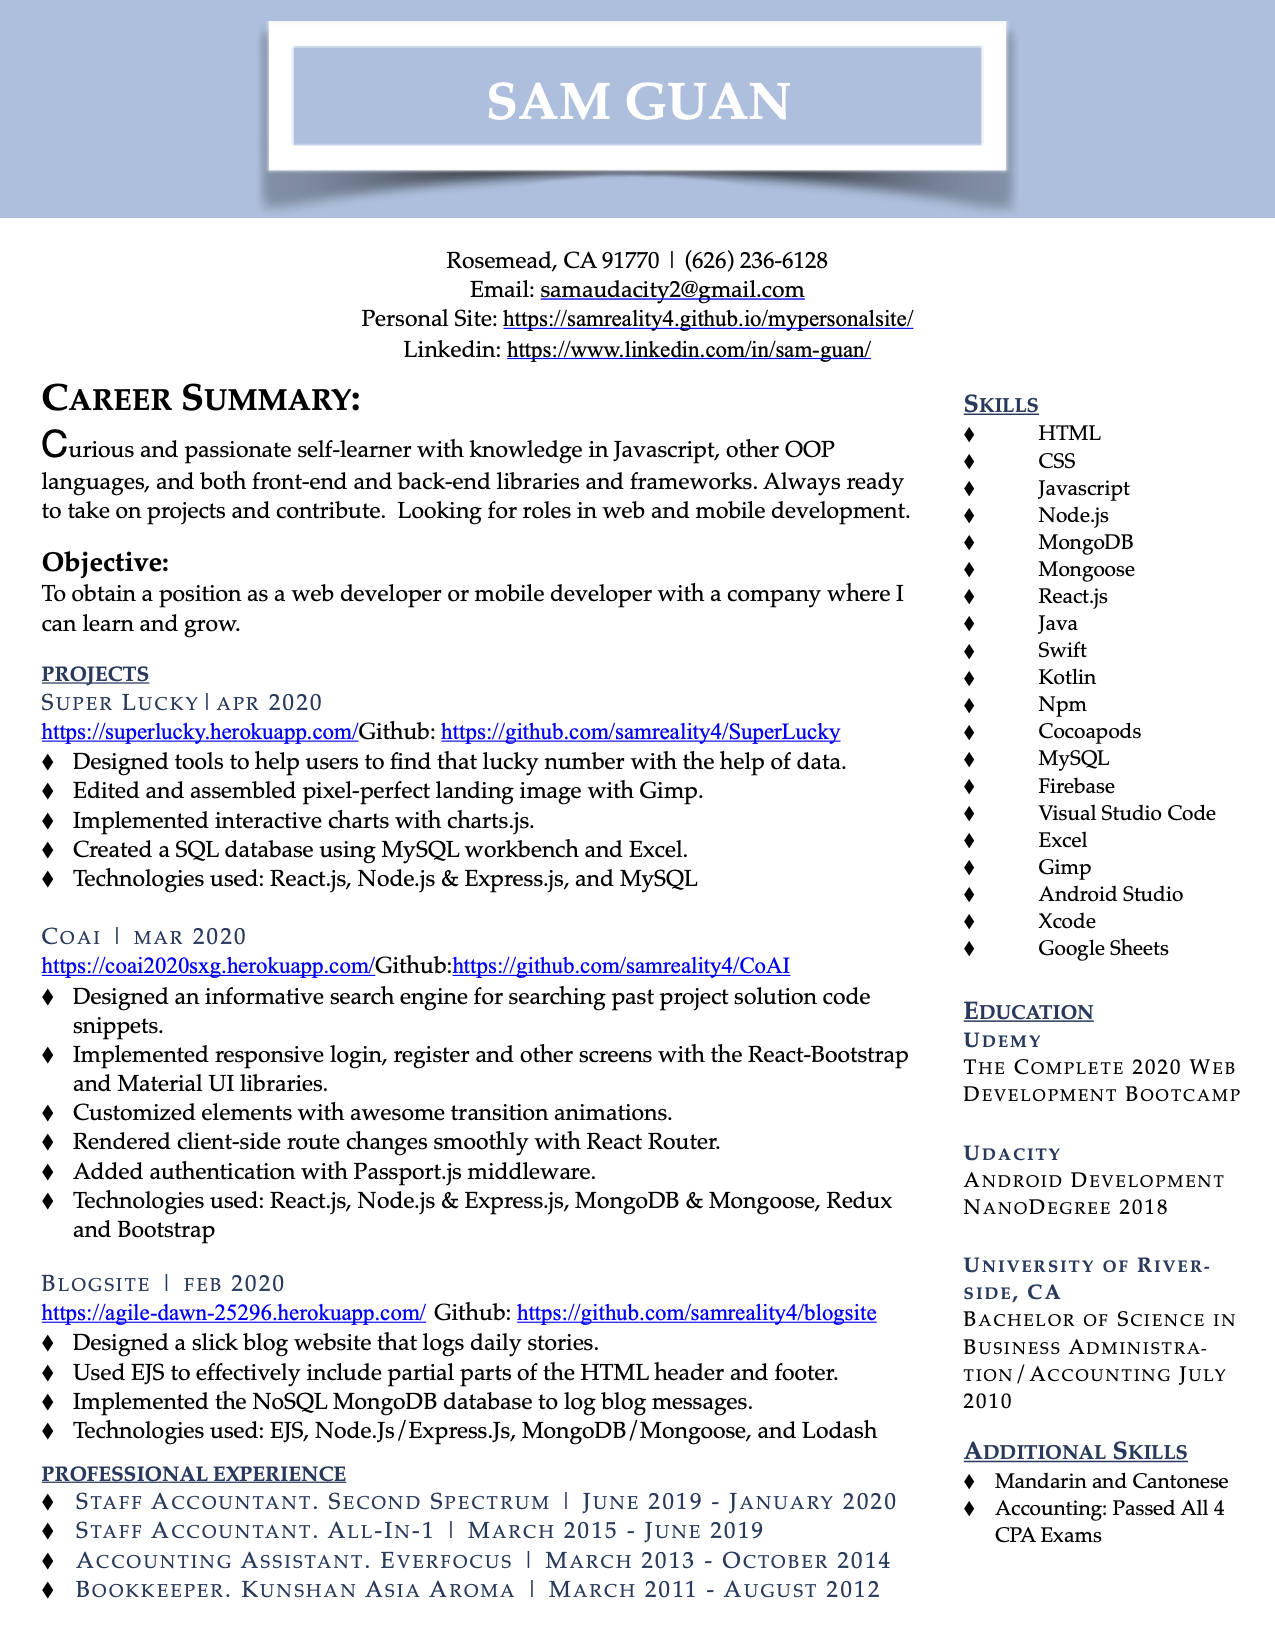
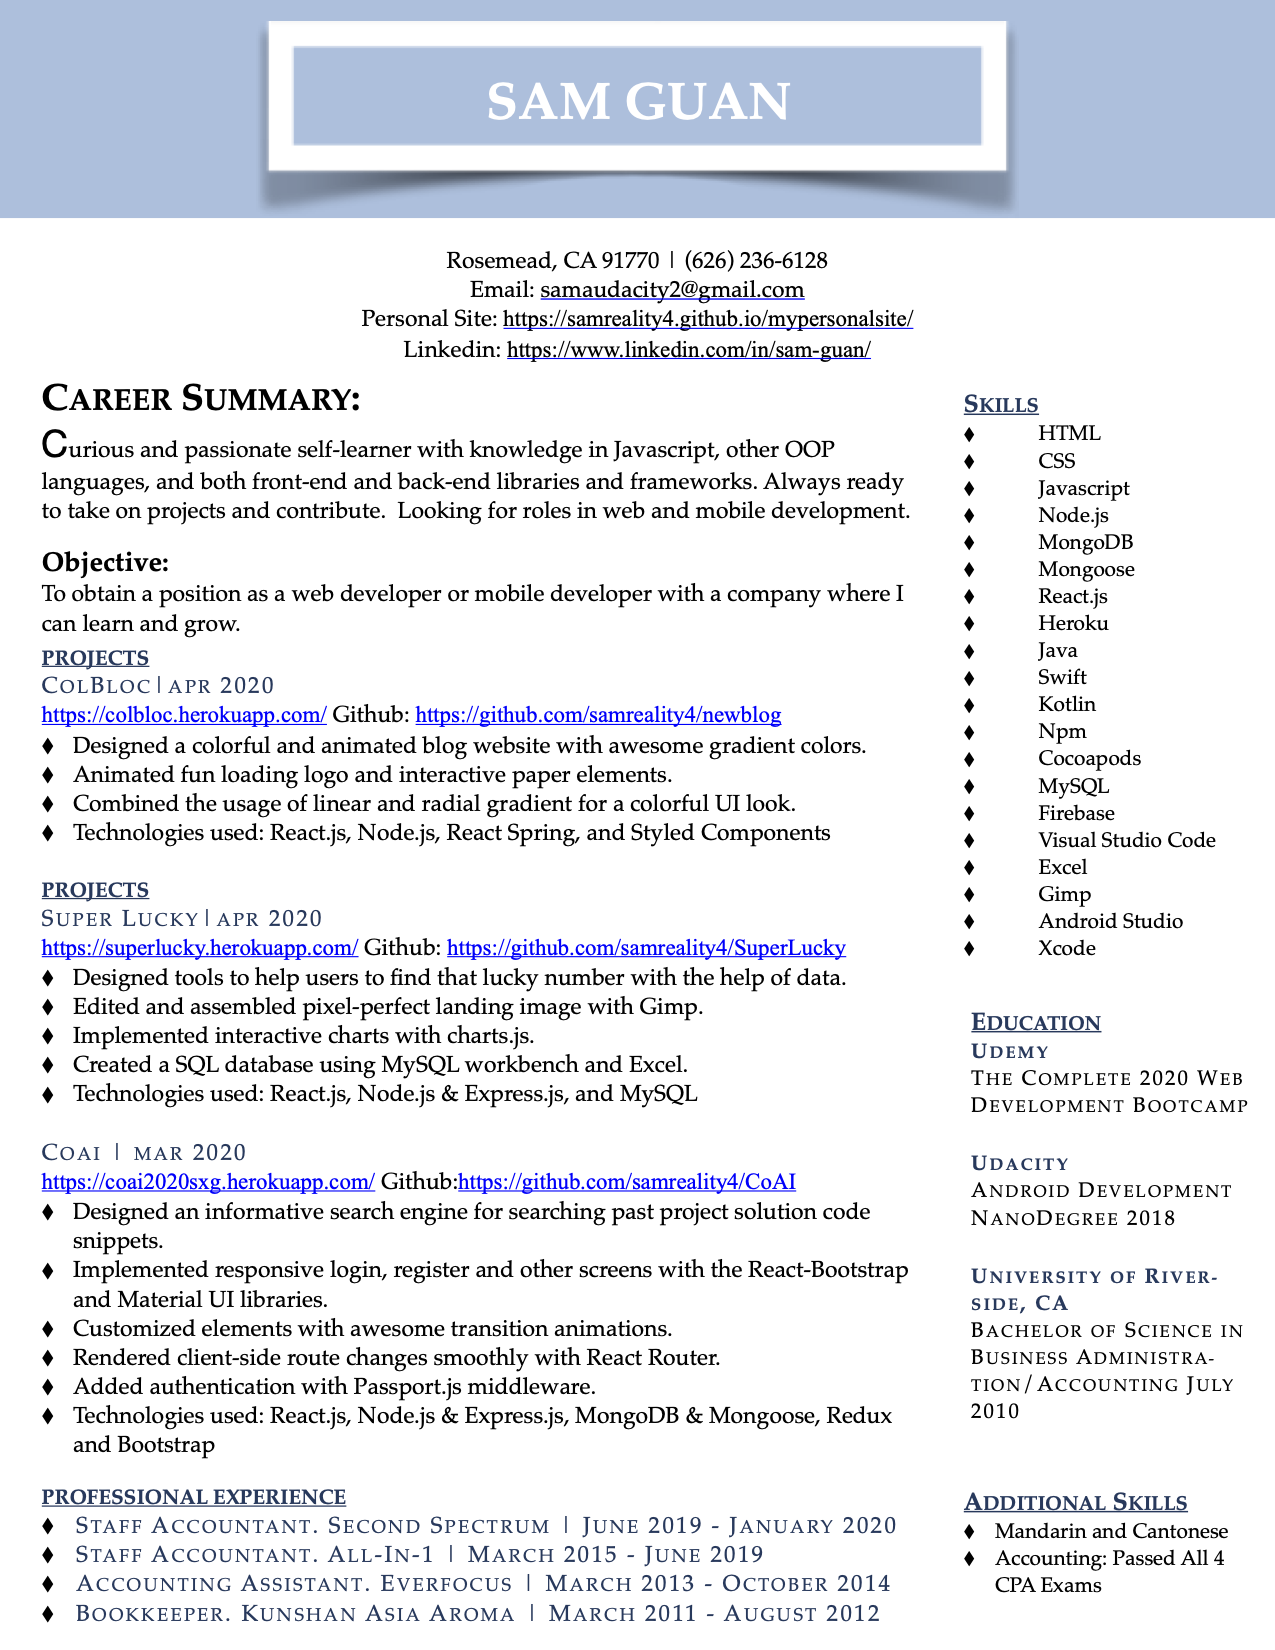
Updates

Changed region(s): [[0.0306, 0.3709, 0.7035, 0.9891], [0.7341, 0.3709, 0.9788, 0.9891]]

diff --git a/static/js/main.9f4e2ef8.chunk.js b/static/js/main.9f4e2ef8.chunk.js
@@ -1,0 +1,2 @@
+(this.webpackJsonpmypersonalsite=this.webpackJsonpmypersonalsite||[]).push([[0],{42:function(e,t,a){e.exports=a(53)},53:function(e,t,a){"use strict";a.r(t);var n=a(0),l=a.n(n),o=a(14),r=a.n(o),i=(a(47),a(37)),c=a(70),m=a(72),s=a(74),u=a(20);var d=function(){var e=Object(n.useState)("#dbe2ef"),t=Object(i.a)(e,2),a=t[0],o=t[1];function r(e){o(e),window.scrollTo(0,0)}return l.a.createElement("div",{className:"container fixed-bottom"},l.a.createElement("div",{className:"row justify-content-center"},l.a.createElement(c.a,{position:"relative",className:"col-xl-4 col-lg-5 col-md-6 col-11 mx-auto justify-content-center shadow-lg",style:{backgroundColor:a,bottom:"20px",alignItems:"center",borderRadius:"15px"}},l.a.createElement(m.a,null,l.a.createElement(u.b,{to:"/mypersonalsite/",style:{textDecoration:"none"}},l.a.createElement(s.a,{onClick:function(){return r("#dbe2ef")},className:"mr-3",variant:"contained",style:{backgroundColor:"#dbe2ef",color:"#FFFF"}},"Home")),l.a.createElement(u.b,{to:"/mypersonalsite/Portfolio",style:{textDecoration:"none"}},l.a.createElement(s.a,{onClick:function(){return r("#fab2ac")},className:"mr-3",variant:"contained",style:{backgroundColor:"#fab2ac",color:"#FFFF"}},"Portfolio")),l.a.createElement(u.b,{to:"/mypersonalsite/Resume",style:{textDecoration:"none"}},l.a.createElement(s.a,{onClick:function(){return r("#eda1c1")},variant:"contained",style:{backgroundColor:"#eda1c1",color:"#FFFF"}},"Resume"))))))},p=[{id:"5",name:"ColBloc",image:"/mypersonalsite/images/colbloc.png",url:"https://colbloc.herokuapp.com/",github:"https://github.com/samreality4/newblog",description:"Colbloc is a blog filled with explosive amount of gradient colors. "},{id:"4",name:"Super Lucky",image:"/mypersonalsite/images/superlucky.png",url:"https://superlucky.herokuapp.com/",github:"https://github.com/samreality4/SuperLucky",description:"Super Lucky is a set of tools to find the luckiest number for the CA Super Lotto game. "},{id:"1",name:"CoAI",image:"/mypersonalsite/images/coai.png",url:"https://coai2020sxg.herokuapp.com/",github:"https://github.com/samreality4/CoAI",description:"A helper search engine for coder to storage their solutions codes for problems that came up during development."},{id:"2",name:"BlogSite",image:"/mypersonalsite/images/blogsite.png",url:"https://agile-dawn-25296.herokuapp.com/",github:"https://github.com/samreality4/blogsite",description:"A fun blog site that logs daily posts."},{id:"3",name:"TinDog",image:"/mypersonalsite/images/tindog.png",url:"https://samreality4.github.io/tindogmaster/",github:"https://github.com/samreality4/tindogmaster",description:"Tinder for dogs front end design."}],g=a(54),h=a(73),f=a(75);var y=function(e){return l.a.createElement("div",{key:e.key,id:e.id,className:"row p-0 col-lg-4 col-md-6 mt-4 mb-5 justify-content-center"},l.a.createElement(f.a,{in:!0},l.a.createElement(g.a,{className:"row p-3 justify-content-center shadow-lg",style:{backgroundColor:"#fab2ac"},elevation:2},l.a.createElement(g.a,{className:"shadow",elevation:2,style:{width:"20rem"}},l.a.createElement("h2",{className:"project-text"},e.name),l.a.createElement("img",{className:"d-block m-2",style:{width:"302px",height:"206px"},src:e.image,alt:"project images"}),l.a.createElement("p",null,l.a.createElement("a",{href:e.url,rel:"noopener noreferrer",target:"_blank"},"Link")),l.a.createElement("p",null,l.a.createElement("a",{href:e.github,rel:"noopener noreferrer",target:"_blank"},"Github")),l.a.createElement(h.a,null),l.a.createElement("div",{className:"project-text text-left p-4"},l.a.createElement("h5",null,"Description:"),l.a.createElement("p",null," ",e.description))))))};var b=function(){return l.a.createElement("div",{className:"container-fluid p-0 row m-0 mb-5 justify-content-center text-center"},p.map((function(e){return l.a.createElement(y,{name:e.name,id:e.id,image:e.image,url:e.url,github:e.github,description:e.description})})))};var E=function(){return l.a.createElement("div",{className:"container-fluid p-0 row m-0 mb-5 justify-content-center"},l.a.createElement(f.a,{in:!0},l.a.createElement(g.a,{className:"row p-0 col-lg-8 col-sm-10 col-11 justify-content-center m-4 shadow-lg",style:{backgroundColor:"#eda1c1"},elevation:2},l.a.createElement("a",{className:"m-3",href:"https://drive.google.com/open?id=1OsUaj0mA3fvK-_KgZ4k2Pmw9nrLOJkvr",rel:"noopener noreferrer",target:"_blank"},l.a.createElement("img",{alt:"resume",className:"img-fluid w-100",src:"/mypersonalsite/images/resume.png"})))))};var v=function(){return l.a.createElement("div",{className:"container-fluid p-0 row m-0 justify-content-center"},l.a.createElement(f.a,{in:!0},l.a.createElement(g.a,{className:"home row col-11 justify-content-center m-4 shadow-lg",style:{backgroundColor:"#dbe2ef"},elevation:2},l.a.createElement("div",{className:"top-container container-fluid text-center",style:{backgroundColor:"#dbe2ef",position:"relative",paddingTop:"100px"}},l.a.createElement("h1",null,"I am Sam."),l.a.createElement("h2",null,"Web App Developer"),l.a.createElement("img",{className:"d-inline top-cloud img-fluid",src:"/mypersonalsite/images/cloud.png",alt:"cloud-png",style:{position:"relative",right:"-15%",bottom:"35%"}}),l.a.createElement("div",null,l.a.createElement("img",{className:"bottom-cloud img-fluid",src:"/mypersonalsite/images/cloud.png",alt:"cloud-png",style:{position:"relative",left:"-15%",bottom:"20%"}})),l.a.createElement("img",{className:"mountain img-fluid mx-auto",src:"/mypersonalsite/images/mountain.png",alt:"mountain"})),l.a.createElement("div",{className:"middle-container text-center mt-2 mb-5",style:{backgroundColor:"#FFFF",padding:"50px"}},l.a.createElement("div",{className:"profile mb-5"},l.a.createElement("img",{className:"profile-image mt-2",src:"/mypersonalsite/images/profile.jpg",alt:"profile",style:{height:"200px",width:"200px",marginTop:"35px",borderRadius:"50%"}}),l.a.createElement("h2",null,"Hello. \u4f60\u597d. \u3053\u3093\u306b\u3061\u308f. Bonjour."),l.a.createElement("p",null,"I am a Web App Developer.")),l.a.createElement("hr",null),l.a.createElement("div",{className:"skills mt-5"},l.a.createElement("h2",null,"My Skills."),l.a.createElement("div",{className:"skill-one container-fluid row col-lg-8 col-md-12 mx-auto justify-content-center mt-4 mb-4"},l.a.createElement("img",{src:"/mypersonalsite/images/coding.gif",alt:"coding",style:{width:"250px",height:"200px",borderRadius:"15%"}}),l.a.createElement("div",{className:"col-lg-8 col-md-7"},l.a.createElement("h3",null,"App Development"),l.a.createElement("p",null,"I have been coding since 2017 while I was working as an accountant. My first intro to the coding world was through the Udacity Android Developer Nanodegree and I deployed a restaurant randomizer Android App called ChoosU in the Google Play Store. From then on, I have expanded my curiousity to IOS development and Full Stack Web development. Seeking positions in web and mobile app development."))),l.a.createElement("div",{className:"skill-two container-fluid row col-lg-8 col-md-12 mx-auto justify-content-center mt-4 mb-4"},l.a.createElement("div",{className:"col-lg-8 col-md-7"},l.a.createElement("h3",null,"Hook Shot"),l.a.createElement("p",null,"I am proficient in doing hook shots from either left or right hand. I have been practicing this shot since I was 13 years old. I am known as Kareem by my peers. Though I am also working on my stepback threes and other range games, but my hoopshot has proven to be my go to move."," ")),l.a.createElement("img",{src:"/mypersonalsite/images/hookshot.gif",alt:"hookshot",style:{width:"250px",height:"200px",borderRadius:"15%"}}))),l.a.createElement("hr",null),l.a.createElement("div",{className:"contact-me mt-5"},l.a.createElement("h2",null,"Get In Touch"),l.a.createElement("p",null,"I am always ready to learn and take on different projects."),l.a.createElement("a",{href:"mailto:samaudacity2@gmail.com",style:{textDecoration:"none"}},l.a.createElement(s.a,{variant:"contained",style:{backgroundColor:"#3f72af",color:"#FFFF"}},"CONTACT ME")),l.a.createElement("br",null))))))},k=a(15);var w=function(){return l.a.createElement(u.a,null,l.a.createElement(l.a.Fragment,null,l.a.createElement(k.c,null,l.a.createElement(k.a,{exact:!0,path:"/mypersonalsite/",render:function(){return l.a.createElement(v,null)}}),l.a.createElement(k.a,{exact:!0,path:"/mypersonalsite/Portfolio",render:function(){return l.a.createElement(b,null)}}),l.a.createElement(k.a,{exact:!0,path:"/mypersonalsite/Resume",render:function(){return l.a.createElement(E,null)}})),l.a.createElement(d,null)))};r.a.render(l.a.createElement(w,null),document.getElementById("root"))}},[[42,1,2]]]);
+//# sourceMappingURL=main.9f4e2ef8.chunk.js.map

diff --git a/index.html b/index.html
@@ -1,1 +1,1 @@
-<!doctype html><html lang="en"><head><meta charset="utf-8"/><link rel="icon" href="/mypersonalsite/favicon.ico"/><meta name="viewport" content="width=device-width,initial-scale=1"/><meta name="theme-color" content="#000000"/><meta name="description" content="Sam's Portfolio Site"/><link rel="apple-touch-icon" href="/mypersonalsite/logo192.png"/><link rel="manifest" href="/mypersonalsite/manifest.json"/><title>Sam's Porfolio Site</title><link rel="stylesheet" href="styles.css"/><link href="/mypersonalsite/static/css/2.de424728.chunk.css" rel="stylesheet"></head><body><noscript>You need to enable JavaScript to run this app.</noscript><div id="root"></div><script>!function(e){function r(r){for(var n,l,i=r[0],a=r[1],p=r[2],c=0,s=[];c<i.length;c++)l=i[c],Object.prototype.hasOwnProperty.call(o,l)&&o[l]&&s.push(o[l][0]),o[l]=0;for(n in a)Object.prototype.hasOwnProperty.call(a,n)&&(e[n]=a[n]);for(f&&f(r);s.length;)s.shift()();return u.push.apply(u,p||[]),t()}function t(){for(var e,r=0;r<u.length;r++){for(var t=u[r],n=!0,i=1;i<t.length;i++){var a=t[i];0!==o[a]&&(n=!1)}n&&(u.splice(r--,1),e=l(l.s=t[0]))}return e}var n={},o={1:0},u=[];function l(r){if(n[r])return n[r].exports;var t=n[r]={i:r,l:!1,exports:{}};return e[r].call(t.exports,t,t.exports,l),t.l=!0,t.exports}l.m=e,l.c=n,l.d=function(e,r,t){l.o(e,r)||Object.defineProperty(e,r,{enumerable:!0,get:t})},l.r=function(e){"undefined"!=typeof Symbol&&Symbol.toStringTag&&Object.defineProperty(e,Symbol.toStringTag,{value:"Module"}),Object.defineProperty(e,"__esModule",{value:!0})},l.t=function(e,r){if(1&r&&(e=l(e)),8&r)return e;if(4&r&&"object"==typeof e&&e&&e.__esModule)return e;var t=Object.create(null);if(l.r(t),Object.defineProperty(t,"default",{enumerable:!0,value:e}),2&r&&"string"!=typeof e)for(var n in e)l.d(t,n,function(r){return e[r]}.bind(null,n));return t},l.n=function(e){var r=e&&e.__esModule?function(){return e.default}:function(){return e};return l.d(r,"a",r),r},l.o=function(e,r){return Object.prototype.hasOwnProperty.call(e,r)},l.p="/mypersonalsite/";var i=this.webpackJsonpmypersonalsite=this.webpackJsonpmypersonalsite||[],a=i.push.bind(i);i.push=r,i=i.slice();for(var p=0;p<i.length;p++)r(i[p]);var f=a;t()}([])</script><script src="/mypersonalsite/static/js/2.e2e4dac7.chunk.js"></script><script src="/mypersonalsite/static/js/main.a7313f90.chunk.js"></script></body></html>
+<!doctype html><html lang="en"><head><meta charset="utf-8"/><link rel="icon" href="/mypersonalsite/favicon.ico"/><meta name="viewport" content="width=device-width,initial-scale=1"/><meta name="theme-color" content="#000000"/><meta name="description" content="Sam's Portfolio Site"/><link rel="apple-touch-icon" href="/mypersonalsite/logo192.png"/><link rel="manifest" href="/mypersonalsite/manifest.json"/><title>Sam's Porfolio Site</title><link rel="stylesheet" href="styles.css"/><link href="/mypersonalsite/static/css/2.de424728.chunk.css" rel="stylesheet"></head><body><noscript>You need to enable JavaScript to run this app.</noscript><div id="root"></div><script>!function(e){function r(r){for(var n,l,i=r[0],a=r[1],p=r[2],c=0,s=[];c<i.length;c++)l=i[c],Object.prototype.hasOwnProperty.call(o,l)&&o[l]&&s.push(o[l][0]),o[l]=0;for(n in a)Object.prototype.hasOwnProperty.call(a,n)&&(e[n]=a[n]);for(f&&f(r);s.length;)s.shift()();return u.push.apply(u,p||[]),t()}function t(){for(var e,r=0;r<u.length;r++){for(var t=u[r],n=!0,i=1;i<t.length;i++){var a=t[i];0!==o[a]&&(n=!1)}n&&(u.splice(r--,1),e=l(l.s=t[0]))}return e}var n={},o={1:0},u=[];function l(r){if(n[r])return n[r].exports;var t=n[r]={i:r,l:!1,exports:{}};return e[r].call(t.exports,t,t.exports,l),t.l=!0,t.exports}l.m=e,l.c=n,l.d=function(e,r,t){l.o(e,r)||Object.defineProperty(e,r,{enumerable:!0,get:t})},l.r=function(e){"undefined"!=typeof Symbol&&Symbol.toStringTag&&Object.defineProperty(e,Symbol.toStringTag,{value:"Module"}),Object.defineProperty(e,"__esModule",{value:!0})},l.t=function(e,r){if(1&r&&(e=l(e)),8&r)return e;if(4&r&&"object"==typeof e&&e&&e.__esModule)return e;var t=Object.create(null);if(l.r(t),Object.defineProperty(t,"default",{enumerable:!0,value:e}),2&r&&"string"!=typeof e)for(var n in e)l.d(t,n,function(r){return e[r]}.bind(null,n));return t},l.n=function(e){var r=e&&e.__esModule?function(){return e.default}:function(){return e};return l.d(r,"a",r),r},l.o=function(e,r){return Object.prototype.hasOwnProperty.call(e,r)},l.p="/mypersonalsite/";var i=this.webpackJsonpmypersonalsite=this.webpackJsonpmypersonalsite||[],a=i.push.bind(i);i.push=r,i=i.slice();for(var p=0;p<i.length;p++)r(i[p]);var f=a;t()}([])</script><script src="/mypersonalsite/static/js/2.e2e4dac7.chunk.js"></script><script src="/mypersonalsite/static/js/main.9f4e2ef8.chunk.js"></script></body></html>

diff --git a/precache-manifest.6e0706a5d9973d28052a023cebe6c189.js b/precache-manifest.6e0706a5d9973d28052a023cebe6c189.js
@@ -1,6 +1,6 @@
 self.__precacheManifest = (self.__precacheManifest || []).concat([
   {
-    "revision": "d0c1a7e7bbd29a6930fd7984fee02bb8",
+    "revision": "767073794028d69b2374f765b58f9c67",
     "url": "/mypersonalsite/index.html"
   },
   {
@@ -16,8 +16,8 @@ self.__precacheManifest = (self.__precacheManifest || []).concat([
     "url": "/mypersonalsite/static/js/2.e2e4dac7.chunk.js.LICENSE.txt"
   },
   {
-    "revision": "ee261376f7454bdba7e6",
-    "url": "/mypersonalsite/static/js/main.a7313f90.chunk.js"
+    "revision": "02223794522461d4aec9",
+    "url": "/mypersonalsite/static/js/main.9f4e2ef8.chunk.js"
   },
   {
     "revision": "837f619d0b96310aff06",

diff --git a/service-worker.js b/service-worker.js
@@ -14,7 +14,7 @@
 importScripts("https://storage.googleapis.com/workbox-cdn/releases/4.3.1/workbox-sw.js");
 
 importScripts(
-  "/mypersonalsite/precache-manifest.eb1c1d0f7cfddd8c8ad33682907ed08b.js"
+  "/mypersonalsite/precache-manifest.6e0706a5d9973d28052a023cebe6c189.js"
 );
 
 self.addEventListener('message', (event) => {
